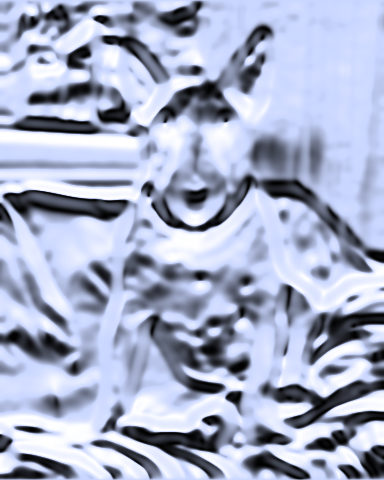
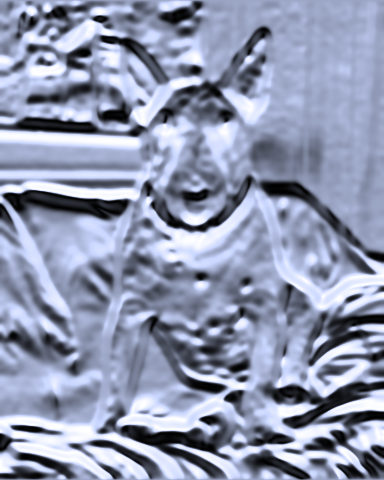
fix(liquid_metal): retune defaults so the subject reads as chrome
At smoothing 4, relief 60 and horizon 0.5 the whole frame blew into blue-white streaks. Less
smoothing and relief with a higher horizon keep flat areas a darker silver and the subject's
outline and face legible; the docs now say the sizes are in px, tuned for a 480 px picture.

diff --git a/src/photo_fx/effects/liquid_metal/effect.py b/src/photo_fx/effects/liquid_metal/effect.py
@@ -16,7 +16,7 @@ class LiquidMetalParams(EffectParams):
     and a ground, coloured as a metal of `tint`."""
 
     smoothing: float = param(
-        4.0,
+        3.0,
         unit="px",
         min=0,
         max=20,
@@ -24,16 +24,17 @@ class LiquidMetalParams(EffectParams):
         "is a bump and the metal is rough with the picture's texture and noise, larger = broad, flowing swells.",
     )
     relief: float = param(
-        60.0,
+        35.0,
         unit="px",
         min=0,
         max=200,
         doc="How tall the relief is: a white pixel stands this many px above a black one, so the slope between "
         "neighbours is their brightness difference times this. 0 = a flat mirror (one tint-coloured picture when the "
-        "horizon is at 0.5), larger = steeper relief and a more contrasty, more broken-up reflection.",
+        "horizon is at 0.5), larger = steeper relief and a more contrasty, more broken-up reflection. Sizes are in px, "
+        "so the defaults suit a picture about 480 px high: scale `smoothing` and `relief` with the picture's size.",
     )
     horizon: float = param(
-        0.5,
+        0.65,
         unit="fraction",
         min=0.05,
         max=0.95,

diff --git a/tests/effects/liquid_metal/test_liquid_metal.py b/tests/effects/liquid_metal/test_liquid_metal.py
@@ -20,7 +20,7 @@ def ramp(direction: float) -> np.ndarray:
 
 
 def test_relief_0_gives_a_flat_picture_of_the_tint_colour_whatever_the_picture(photo: np.ndarray) -> None:
-    out = registry.apply(NAME, photo, relief=0, tint=TINT)
+    out = registry.apply(NAME, photo, relief=0, horizon=0.5, tint=TINT)
     np.testing.assert_allclose(out, np.broadcast_to(TINT, out.shape), atol=1e-6)
 
 
@@ -79,7 +79,7 @@ def test_on_a_ramp_the_colour_is_the_metal_gradient_at_the_height_the_reflection
 )
 def test_edge_decides_the_slope_in_the_first_row_and_nowhere_else(edge: str, first_row_rise: float) -> None:
     """With the horizon at 0.5 the environment is t itself; the metal then runs black, tint, white over t 0..1."""
-    out = registry.apply(NAME, ramp(180), relief=100, tint=TINT, smoothing=0, edge=edge)
+    out = registry.apply(NAME, ramp(180), relief=100, horizon=0.5, tint=TINT, smoothing=0, edge=edge)
     t = 0.5 + first_row_rise / (1 + first_row_rise**2)
     expected = np.array(TINT) * min(2 * t, 1) + (1 - np.array(TINT)) * max(2 * t - 1, 0)
     np.testing.assert_allclose(out[0], np.broadcast_to(expected, out[0].shape), atol=1e-4)
